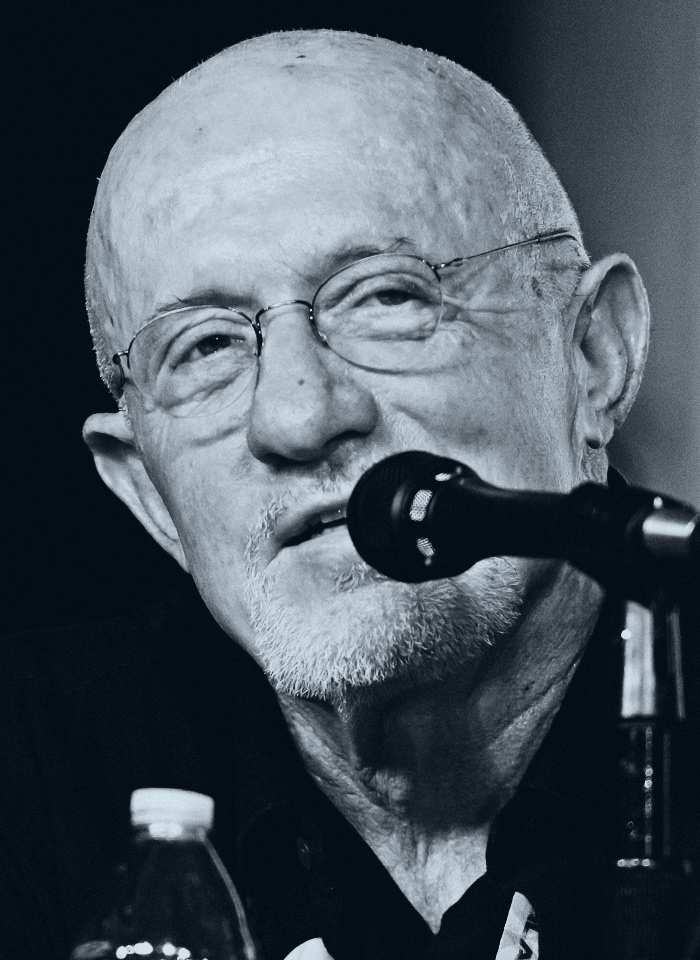
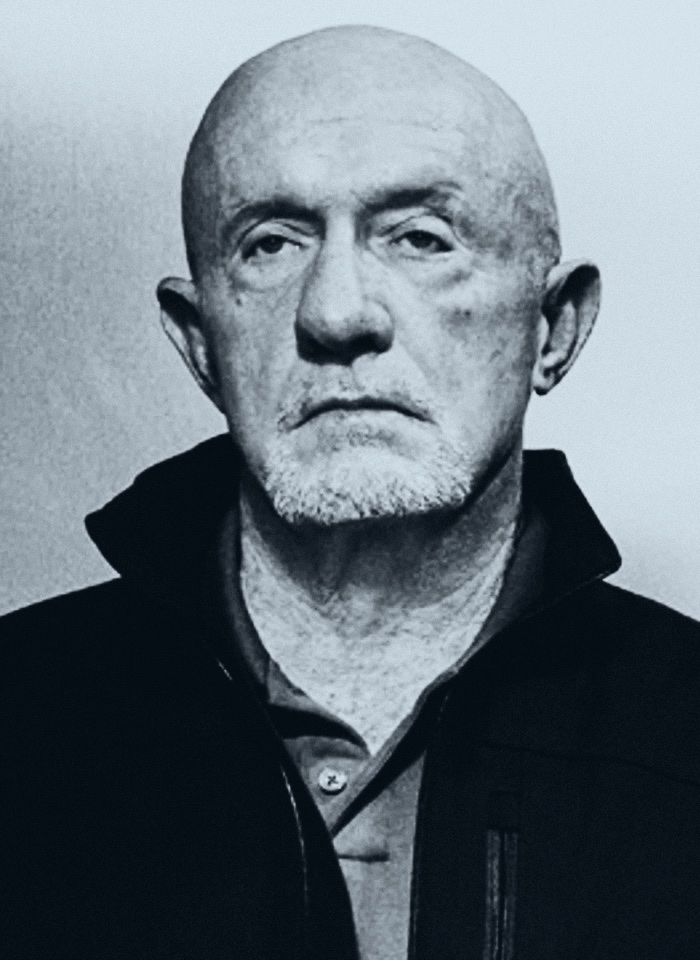
Fix Mike's poster photo; let the portrait script read .webp sources
Every Commons photo of Jonathan Banks is from the same 2012 Comic-Con panel,
with a microphone across his face. Use the in-character still that was
already in portrait-src/ instead (credited as such in CREDITS.md).

sips couldn't crop a .webp into a .jpg without an explicit output format,
so the generator now always passes -s format jpeg.

diff --git a/CREDITS.md b/CREDITS.md
@@ -9,7 +9,7 @@ derived images in `public/portraits/poster/` too.
 | frank-underwood | [Kevin Spacey-9243.jpg](https://commons.wikimedia.org/wiki/File:Kevin_Spacey-9243.jpg) | Harald Krichel | CC BY-SA 4.0 |
 | harvey-specter | [Gabriel Macht 3241.jpg](https://commons.wikimedia.org/wiki/File:Gabriel_Macht_3241.jpg) | Genevieve (derivative work: CennoxX) | CC BY 2.0 |
 | walter-white | [BryanCranston-byPhilipRomano (cropped).jpg](https://commons.wikimedia.org/wiki/File:BryanCranston-byPhilipRomano_(cropped).jpg) | Philip Romano | CC BY-SA 4.0 |
-| mike-ehrmantraut | [Jonathan Banks 2012 2.jpg](https://commons.wikimedia.org/wiki/File:Jonathan_Banks_2012_2.jpg) | Gage Skidmore (derivative editing by Poke2001) | CC BY-SA 3.0 |
+| mike-ehrmantraut | mike-ehrmantraut.webp | AMC (promotional still) | Unknown (pre-existing in this repo) |
 | tommy-shelby | [Cillian Murphy at the London premier of Steve in September 2025 (cropped).jpg](https://commons.wikimedia.org/wiki/File:Cillian_Murphy_at_the_London_premier_of_Steve_in_September_2025_(cropped).jpg) | Netflix | CC BY-SA 4.0 |
 | tyrion-lannister | [Peter Dinklage by Gage Skidmore 2.jpg](https://commons.wikimedia.org/wiki/File:Peter_Dinklage_by_Gage_Skidmore_2.jpg) | Gage Skidmore | CC BY-SA 3.0 |
 | cersei-lannister | [Lena Headey by Gage Skidmore 2.jpg](https://commons.wikimedia.org/wiki/File:Lena_Headey_by_Gage_Skidmore_2.jpg) | Gage Skidmore | CC BY-SA 3.0 |
